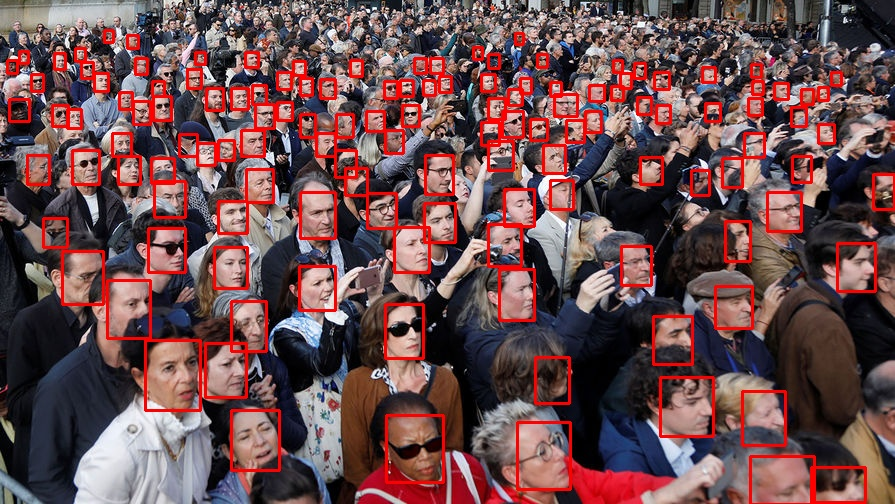
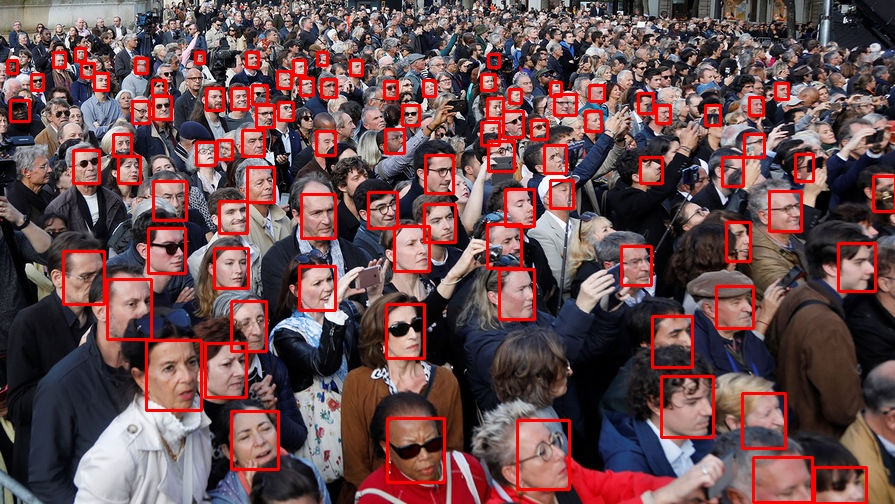
transforms with no albumentations

diff --git a/app/routes.py b/app/routes.py
@@ -1,11 +1,13 @@
 from app import app
-from flask import render_template, request, redirect, url_for, flash
+from flask import render_template, request, redirect, url_for
 from werkzeug.utils import secure_filename
 import torch
 import torchvision
+import torchvision.transforms.functional as F
 import cv2
 import numpy as np
-import albumentations as albu
+from PIL import Image
+#import albumentations as albu
 
 def xywh2xyxy(x):
     # Convert nx4 boxes from [x, y, w, h] to [x1, y1, x2, y2] where xy1=top-left, xy2=bottom-right
@@ -83,9 +85,12 @@ def find_faces(model, img, img_path, image_size=640, conf_thresh=0.5, transforms
     height, width = img.shape[:2]
     ratio = max(height, width) / image_size
     image = np.copy(img)
+    image = cv2.cvtColor(image, cv2.COLOR_BGR2RGB)
+    image = Image.fromarray(image)
     if transforms is not None:
-        sample = transforms(image=image)
-        image = sample['image']
+        #sample = transforms(image=image)
+        #image = sample['image']
+        image = transforms(image)
     pred = model(image[None,:])
     pred = non_max_suppression(pred[0])
     pred = pred[0]
@@ -103,17 +108,32 @@ def find_faces(model, img, img_path, image_size=640, conf_thresh=0.5, transforms
     del pred, image, img_with_boxes
 
 IMAGE_SIZE = 640
-class ToTensorNormalTest(object):
-    def __call__(self, image, force_apply=None):
-        image = image.transpose((2, 0, 1))
-        return {'image': torch.tensor(image, dtype=torch.float32)/255.}
 
-test_transform = albu.Compose([
-    albu.LongestMaxSize(max_size=IMAGE_SIZE),
-    albu.PadIfNeeded(min_height=IMAGE_SIZE, min_width=IMAGE_SIZE, border_mode=cv2.BORDER_CONSTANT),
-    ToTensorNormalTest()
-    ]
-)
+#class ToTensorNormalTest(object):
+#    def __call__(self, image, force_apply=None):
+#        image = image.transpose((2, 0, 1))
+#        return {'image': torch.tensor(image, dtype=torch.float32)/255.}
+
+#test_transform = albu.Compose([
+#    albu.LongestMaxSize(max_size=IMAGE_SIZE),
+#    albu.PadIfNeeded(min_height=IMAGE_SIZE, min_width=IMAGE_SIZE, border_mode=cv2.BORDER_CONSTANT),
+#    ToTensorNormalTest()
+#    ]
+#)
+
+class SquarePad:
+    def __call__(self, image):
+        w, h = image.size
+        max_wh = np.max([w, h])
+        hp = int((max_wh - w) / 2)
+        vp = int((max_wh - h) / 2)
+        padding = (hp, vp, hp, vp)
+        return F.pad(image, padding, 0, 'constant')
+
+test_transform = torchvision.transforms.Compose([
+        SquarePad(),
+        torchvision.transforms.Resize(IMAGE_SIZE),
+        torchvision.transforms.ToTensor()])
 
 checkpoint_path = 'app/NNs/checkpoint_yolov5_last.pth'
 
@@ -123,7 +143,7 @@ model = torch.load(checkpoint_path, map_location=torch.device('cpu'))
 ALLOWED_EXTENSIONS = set(['png', 'jpg', 'jpeg'])
 
 app.config['UPLOAD_FOLDER'] = 'app/static/images/'
-app.config['SECRET_KEY'] = 'secret_key'
+#app.config['SECRET_KEY'] = 'secret_key'
 
 def allowed_file(filename):
     return '.' in filename and \
